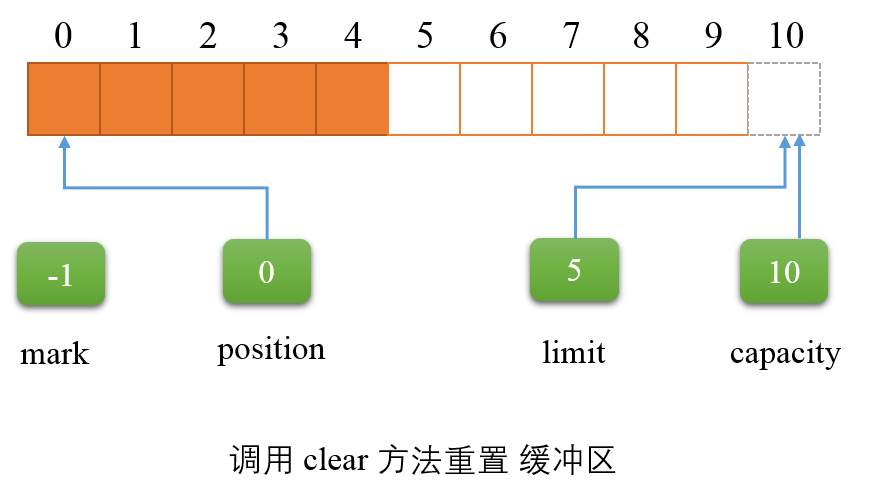
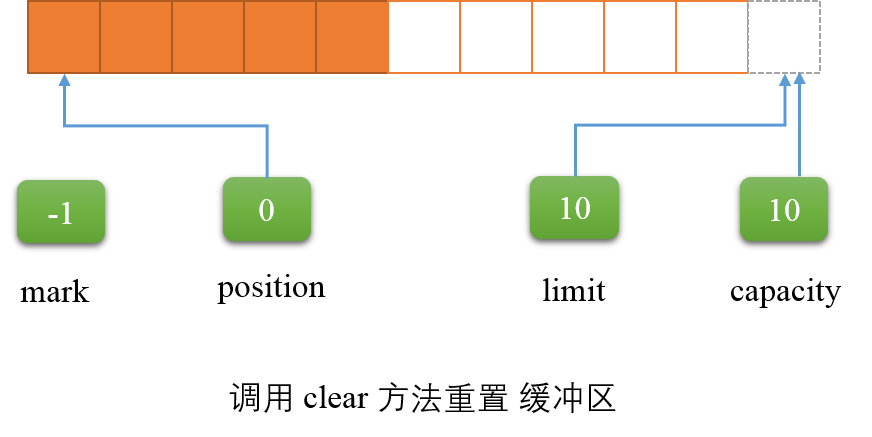
update

diff --git a/Buffer.md b/Buffer.md
@@ -1,0 +1,192 @@
+# 缓冲区
+
+<!-- toc -->
+
+缓冲区本质上就是一块内存，可以向该内存中写入数据以及从内存中读取数据。这块内存被包装成 NIO Buffer 对象，并提供了相关的 API，以方便的访问这块内存。需要注意的是缓冲区在读模式和写模式下有不同的行为。
+
+## 属性
+缓冲区通过四个属性来描述它所包含的数据信息：
+
+* **capacity（容量）**    
+    缓冲区能被容纳元素的最大数量。当缓冲区被创建之后，它的容量就已经确定了，在使用过程中不可改变
+
+* **position（位置）**  
+    表示下一个要被读或者写的元素的索引。position 的最大有效值为 capacity-1。
+
+* **limit（上界）**
+  * 当缓冲区处于写模式时，limit 表示最多能往 Buffer 里写入的数据。该模式下，limit 就等于 Buffer 的 capacity。
+  * 当缓冲区处于读模式时，limit 表示最多可以读到的数据。在该模式下，limit 会被设置为写模式下的 positoin 值。
+
+* **mark（标记）**  
+    保存一个 position 信息备份。通过调用 mark() 方法，可以将 mark 值设为当前 position 值，即 mark=position。随后再调用 reset 方法时，会将 position 值重置为 mark 值。初始时 mark 是未定义的，只有调用了 mark() 方法之后，mark 值才被定义。
+
+## 初始化
+Buffer 的子类有很多，这里我们以 ByteBuffer 为例，来看下缓冲区处于不同模式下的结构变化。下图是缓冲区刚被创建时的状态，此时缓冲区处于写模式。这里 mark 被设为 -1，用来表示 mark 是未定义的 （undefined）。我们看到缓冲区实际上就是一个数组加上我们前面说的几个属性，注意这里创建了一个长度为 10 的缓存区，索引从 0 - 9，10 元素是不存在，这里为了方便描述，绘制了一个虚拟的 10 号元素。
+
+![](/images/buffer_init.png)
+> 图片参考 Java NIO
+
+## 写入数据
+
+我们有两种方式向 Buffer 里写数据：
+* 从 Channel 里写到 Buffer
+    ```java
+    int bytesRead = inChannel.read(buf); //read into buffer.
+    ```
+* 通过 Buffer 的 put 方法
+    ```java
+    buf.put('A');
+    ```
+
+假设我们向缓冲区中写入了 5 个元素，那么此时缓冲区就变为下面的状态：
+
+![](/images/写入元素.png)
+
+在向缓冲区写入的过程中，会首先数据写入到 position 对应的位置，然后对 position 执行加 1 操作，下面是代码实现：
+```java
+final int nextPutIndex() { // package-private
+    if (position >= limit)
+        throw new BufferOverflowException();
+    return position++;
+}
+```
+
+## 读取数据
+
+下面我们再来看下缓冲区的读操作。通过 flip 方法，可以将缓冲区切换到读取模式，我们看下 flip 方法的实现：
+```java
+public final Buffer flip() {
+    limit = position;
+    position = 0;
+    mark = -1;
+    return this;
+}
+```
+我们看到 flip 方法中其实做了3件事：
+* 将 limit 设为 position：在读模式下，limit 主要用来标记缓冲区中可读元素的上限，也就是在读之前，缓冲区中已经写入的元素数量。根据缓冲区写入的过程，缓冲区中已经写入的元素个数其实就是写模式下的 position 值，所以这里将 limit 设为 position。
+* 将 position 设为 0：因为缓冲区是顺序写入，所以我们从 0 开始都即可。
+* 重置 mark。
+
+下面是执行 flip 方法之后缓冲区的状态：
+
+![](/images/读取元素.png)
+
+然后我们可以通过下面两种方式从缓冲区中读数据：
+* 将 Buffer 数据读入到 Channel 中
+  ```java
+  int bytesWritten = inChannel.write(buf);
+  ```
+* 调用 Buffer 的 get 方法，get 方法有多个版本，具体的参见 JDK 文档。
+  ```java
+  byte aByte = buf.get();
+  ```
+
+如果我们希望重新读数据，可以调用 rewind 方法，该方法会将 position 置为 0，而 limit 保持不变，下面是该方法的实现：
+```java
+public final Buffer rewind() {
+    position = 0;
+    mark = -1;
+    return this;
+}
+```
+在读取完 position 位置的数据之后，也会将 position 的值加 1。另外从上面的图我们也可以看出，不管是读模式和写模式，Buffer 的 capatity 值是一致的。
+
+## 释放缓冲区
+当读完缓冲区的数据之后，需要让 buffer 准备好再次被写入，也就是将缓冲区中的数据释放掉。我们可以通过 clear() 或者 compact() 方法来清除数据。我们首先看下 clear 方法，下面是实现代码：
+```java
+public final Buffer clear() {
+    position = 0;
+    limit = capacity;
+    mark = -1;
+    return this;
+}
+```
+我们看到 clear 方法只是重置了 position、limit 和 mark 这 3 个变量，Buffer 中原有的数据并没有被清除。
+
+![](/images/清除元素.png)
+
+在看 compact 方法之前，我们首先看下 hasRemaining 和 remaining 方法：
+* hasRemaining - 查询是否还有剩余元素
+  * 写模式 - 检查缓冲区中是否还有空闲的空间可以写入，
+  * 读模式 - 检查缓冲区中是否还有未读的元素
+  ```java
+  public final boolean hasRemaining() {
+      return position < limit;
+  }
+  ```
+* remaining - 返回剩余元素的个数
+  * 写模式 - 返回空闲元素的个数
+  * 读模式 - 返回未读元素的个数
+  ```java
+  public final int remaining() {
+      return limit - position;
+  }
+  ```
+
+compact 方法会保留未读数据。该方法首先将所有未读的元素拷贝到 Buffer 起始处，然后将 position 指向最后一个未读元素的后面，下图是一个示例。下图中我们假设缓冲区已经被读了两个元素，然后对该缓冲区调用 compact 方法。
+
+![](/images/compact.png)
+
+下面我们看下 ByteBuffer 中 compact 方法的实现：
+```java
+public ByteBuffer compact() {
+    // 复制 Buffer 剩余元素到 Buffer 起始处
+    System.arraycopy(hb, ix(position()), hb, ix(0), remaining());
+    // 设置 position为剩余元素个数值
+    position(remaining());
+    // 设置 limit 值为 capacity
+    limit(capacity());
+    // 重置 mark
+    discardMark();
+    return this;
+}
+
+/**
+ * @param      src      the source array.
+ * @param      srcPos   starting position in the source array.
+ * @param      dest     the destination array.
+ * @param      destPos  starting position in the destination data.
+ * @param      length   the number of array elements to be copied.
+ */
+public static native void arraycopy(Object src, int srcPos,
+    Object dest, int destPos, int length);
+```
+## 标记
+下面我们来看下 mark 属性。mark 属性主要用来设置一个标记，然后我们可以将 position 重置到 mark 标记的位置。通过调用 mark() 方法会将 mark 的值设为当前的 position 值，当调用 reset() 方法时，会将 position 重置为 mark 值，如果 mark 未定义，会抛出 InvalidMarkException 异常。注意我们前面说的 rewind()、clear()、flip() 方法会重置 mark 值，下面是两个方法的实现：
+```java
+public final Buffer mark() {
+    mark = position;
+    return this;
+}
+
+public final Buffer reset() {
+    int m = mark;
+    if (m < 0)
+        throw new InvalidMarkException();
+    position = m;
+    return this;
+}
+```
+## 类别
+NIO 中提供了不同的 Buffer 用来存储不同的数据类型，主要包含下面几种：
+* CharBuffer
+* ShortBuffer
+* IntBuffer
+* LongBuffer
+* FloatBuffer
+* DoubleBuffer
+* ByteBuffer
+
+下面是相关的数据类型以及大小
+
+| 数据类型 | 大小(字节数量) |
+|:---|:---|
+| char | 2  |
+| short | 2 |
+| int | 4 |
+| long | 8 |
+| float | 4 |
+| double | 8 |
+| byte | 1 |
+
+其中 ByteBuffer 比较特殊，它以字节为单位，可以通过 asXXXBuffer 方法转换成其他类型的 Buffer，例如转换为 CharBuffer：`byteBuffer.asCharBuffer()`。需要注意的一点是转换成 CharBuffer 时会有编码问题，这个在后面讨论。

diff --git a/基础.md b/基础.md
@@ -10,157 +10,13 @@ Java NIO 主要包含三个重要的概念：
 
 我们依次来看下相关的知识。
 
-## 缓冲区
-缓冲区本质上就是一块内存，可以向该内存中写入数据以及从内存中读取数据。这块内存被包装成 NIO Buffer 对象，并提供了相关的 API，以方便的访问这块内存。需要注意的是缓冲区在读模式和写模式下有不同的行为。
 
-### 属性
-缓冲区通过四个属性来描述它所包含的数据信息：
 
-* **capacity（容量）**    
-    缓冲区能被容纳元素的最大数量。当缓冲区被创建之后，它的容量就已经确定了，在使用过程中不可改变
+## 通道
+通道（Channel） 提供与 IO 服务的直接连接，使用 Channel 我们可以在字节缓冲区和通道另一侧的实体（通常是一个文件或者套接字）之间有效的传输数据。Channel 主要分为两类：File Channel（文件通道）和 Socket Channel（套接字通道）
 
-* **position（位置）**  
-    表示下一个要被读或者写的元素的索引。position 的最大有效值为 capacity-1。
 
-* **limit（上界）**
-  * 当缓冲区处于写模式时，limit 表示最多能往 Buffer 里写入的数据。该模式下，limit 就等于 Buffer 的 capacity。
-  * 当缓冲区处于读模式时，limit 表示最多可以读到的数据。在该模式下，limit 会被设置为写模式下的 positoin 值。
 
-* **mark（标记）**  
-    保存一个 position 信息备份。通过调用 mark() 方法，可以将 mark 值设为当前 position 值，即 mark=position。随后再调用 reset 方法时，会将 position 值重置为 mark 值。初始时 mark 是未定义的，只有调用了 mark() 方法之后，mark 值才被定义。
-
-### 初始化
-Buffer 的子类有很多，这里我们以 ByteBuffer 为例，来看下缓冲区处于不同模式下的结构变化。下图是缓冲区刚被创建时的状态，此时缓冲区处于写模式。这里 mark 被设为 -1，用来表示 mark 是未定义的 （undefined）。我们看到缓冲区实际上就是一个数组加上我们前面说的几个属性，注意这里创建了一个长度为 10 的缓存区，索引从 0 - 9，10 元素是不存在，这里为了方便描述，绘制了一个虚拟的 10 号元素。
-
-![](/images/buffer_init.png)
-> 图片参考 Java NIO
-
-### 写入数据
-
-我们有两种方式向 Buffer 里写数据：
-* 从 Channel 里写到 Buffer
-    ```java
-    int bytesRead = inChannel.read(buf); //read into buffer.
-    ```
-* 通过 Buffer 的 put 方法
-    ```java
-    buf.put('A');
-    ```
-
-假设我们向缓冲区中写入了 5 个元素，那么此时缓冲区就变为下面的状态：
-
-![](/images/写入元素.png)
-
-在向缓冲区写入的过程中，会首先数据写入到 position 对应的位置，然后对 position 执行加 1 操作，下面是代码实现：
-```java
-final int nextPutIndex() { // package-private
-    if (position >= limit)
-        throw new BufferOverflowException();
-    return position++;
-}
-```
-
-### 读取数据
-
-下面我们再来看下缓冲区的读操作。通过 flip 方法，可以将缓冲区切换到读取模式，我们看下 flip 方法的实现：
-```java
-public final Buffer flip() {
-    limit = position;
-    position = 0;
-    mark = -1;
-    return this;
-}
-```
-我们看到 flip 方法中其实做了3件事：
-* 将 limit 设为 position：在读模式下，limit 主要用来标记缓冲区中可读元素的上限，也就是在读之前，缓冲区中已经写入的元素数量。根据缓冲区写入的过程，缓冲区中已经写入的元素个数其实就是写模式下的 position 值，所以这里将 limit 设为 position。
-* 将 position 设为 0：因为缓冲区是顺序写入，所以我们从 0 开始都即可。
-* 重置 mark。
-
-下面是执行 flip 方法之后缓冲区的状态：
-
-![](/images/读取元素.png)
-
-然后我们可以通过下面两种方式从缓冲区中读数据：
-* 将 Buffer 数据读入到 Channel 中
-  ```java
-  int bytesWritten = inChannel.write(buf);
-  ```
-* 调用 Buffer 的 get 方法，get 方法有多个版本，具体的参见 JDK 文档。
-  ```java
-  byte aByte = buf.get();
-  ```
-
-如果我们希望重新读数据，可以调用 rewind 方法，该方法会将 position 置为 0，而 limit 保持不变，下面是该方法的实现：
-```java
-public final Buffer rewind() {
-    position = 0;
-    mark = -1;
-    return this;
-}
-```
-在读取完 position 位置的数据之后，也会将 position 的值加 1。另外从上面的图我们也可以看出，不管是读模式和写模式，Buffer 的 capatity 值是一致的。
-
-### 释放缓冲区
-当读完缓冲区的数据之后，需要让 buffer 准备好再次被写入，也就是将缓冲区中的数据释放掉。我们可以通过 clear() 或者 compact() 方法来清除数据。我们首先看下 clear 方法，下面是实现代码：
-```java
-public final Buffer clear() {
-    position = 0;
-    limit = capacity;
-    mark = -1;
-    return this;
-}
-```
-我们看到 clear 方法只是重置了 position、limit 和 mark 这 3 个变量，Buffer 中原有的数据并没有被清除。
-
-![](/images/清除元素.png)
-
-在看 compact 方法之前，我们首先看下 hasRemaining 和 remaining 方法：
-* hasRemaining - 查询是否还有剩余元素
-  * 写模式 - 检查缓冲区中是否还有空闲的空间可以写入，
-  * 读模式 - 检查缓冲区中是否还有未读的元素
-  ```java
-  public final boolean hasRemaining() {
-      return position < limit;
-  }
-  ```
-* remaining - 返回剩余元素的个数
-  * 写模式 - 返回空闲元素的个数
-  * 读模式 - 返回未读元素的个数
-  ```java
-  public final int remaining() {
-      return limit - position;
-  }
-  ```
-  
-compact 方法会保留未读数据。该方法首先将所有未读的元素拷贝到 Buffer 起始处，然后将 position 指向最后一个未读元素的后面，下图是一个示例。下图中我们假设缓冲区已经被读了两个元素，然后对该缓冲区调用 compact 方法。
-
-![](/images/compact.png)
-
-下面我们看下 ByteBuffer 中 compact 方法的实现：
-```java
-public ByteBuffer compact() {
-    // 复制 Buffer 剩余元素到 Buffer 起始处
-    System.arraycopy(hb, ix(position()), hb, ix(0), remaining());
-    // 设置 position为剩余元素个数值
-    position(remaining());
-    // 设置 limit 值为 capacity
-    limit(capacity());
-    // 重置 mark
-    discardMark();
-    return this;
-}
-
-/**
- * @param      src      the source array.
- * @param      srcPos   starting position in the source array.
- * @param      dest     the destination array.
- * @param      destPos  starting position in the destination data.
- * @param      length   the number of array elements to be copied.
- */
-public static native void arraycopy(Object src, int srcPos,
-    Object dest, int destPos, int length);
-
-```
 
 ## 参考资料
 * [Java NIO Tutorial](http://tutorials.jenkov.com/java-nio/overview.html)

diff --git a/SUMMARY.md b/SUMMARY.md
@@ -2,3 +2,4 @@
 
 * [前言](README.md)
 * [基础](基础.md)
+  * [Buffer](Buffer.md)
